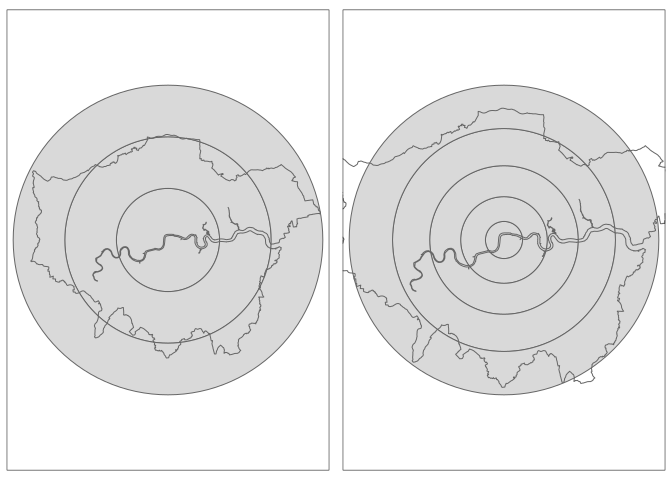
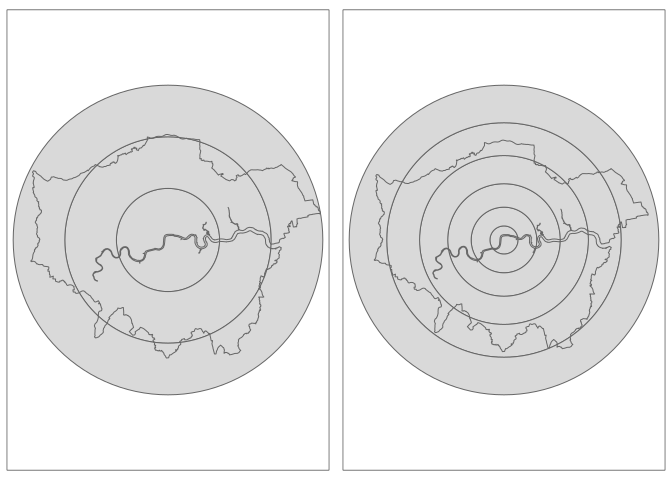
Fix issue with too few rings, wip

diff --git a/README.md b/README.md
@@ -26,8 +26,6 @@ Install it from [GitHub](https://github.com/) with:
 ``` r
 # install.packages("devtools")
 devtools::install_github("robinlovelace/zonebuilder")
-#> Skipping install of 'zonebuilder' from a github remote, the SHA1 (17e7530b) has not changed since last install.
-#>   Use `force = TRUE` to force installation
 ```
 
 ## Using zonebuilder
@@ -90,16 +88,16 @@ z
 #> proj4string:    +proj=tmerc +lat_0=49 +lon_0=-2 +k=0.9996012717 +x_0=400000 +y_0=-100000 +ellps=airy +units=m +no_defs
 #> First 10 features:
 #>    circle_id segment_id label                       geometry
-#> 1          1          1     A MULTIPOLYGON (((532101.7 17...
-#> 2          2          1   B01 POLYGON ((530325.3 182602.3...
-#> 3          2         10   B10 POLYGON ((528203.9 178928, ...
-#> 4          2         11   B11 POLYGON ((528203.9 180481, ...
-#> 5          2         12   B12 POLYGON ((528980.4 181825.8...
-#> 6          2          2   B02 MULTIPOLYGON (((531808.8 18...
-#> 7          2          3   B03 MULTIPOLYGON (((532067.6 17...
-#> 8          2          4   B04 MULTIPOLYGON (((534101.7 17...
-#> 9          2          5   B05 POLYGON ((533999.5 178928, ...
-#> 10         2          6   B06 POLYGON ((533223 177583.2, ...
+#> 1          1         01     A MULTIPOLYGON (((532101.7 17...
+#> 2          2         01   B01 MULTIPOLYGON (((531808.8 18...
+#> 3          2         02   B02 MULTIPOLYGON (((532067.6 17...
+#> 4          2         03   B03 MULTIPOLYGON (((534101.7 17...
+#> 5          2         04   B04 POLYGON ((533999.5 178928, ...
+#> 6          2         05   B05 POLYGON ((533223 177583.2, ...
+#> 7          2         06   B06 POLYGON ((531878.2 176806.7...
+#> 8          2         07   B07 MULTIPOLYGON (((530325.3 17...
+#> 9          2         08   B08 MULTIPOLYGON (((528980.4 17...
+#> 10         2         09   B09 POLYGON ((528203.9 178928, ...
 qtm(z)
 ```
 
@@ -111,8 +109,8 @@ documented in the help pages and an in-progress academic paper.
 ``` r
 args(zb_zone)
 #> function (x = NULL, point = NULL, n_circles = NULL, n_segments = 12, 
-#>     distance = 1, distance_growth = 1, starting_angle = -15, 
-#>     segment_center = FALSE, intersection = TRUE) 
+#>     distance = 1, distance_growth = 1, starting_angle = 15, segment_center = FALSE, 
+#>     intersection = TRUE) 
 #> NULL
 ```
 
